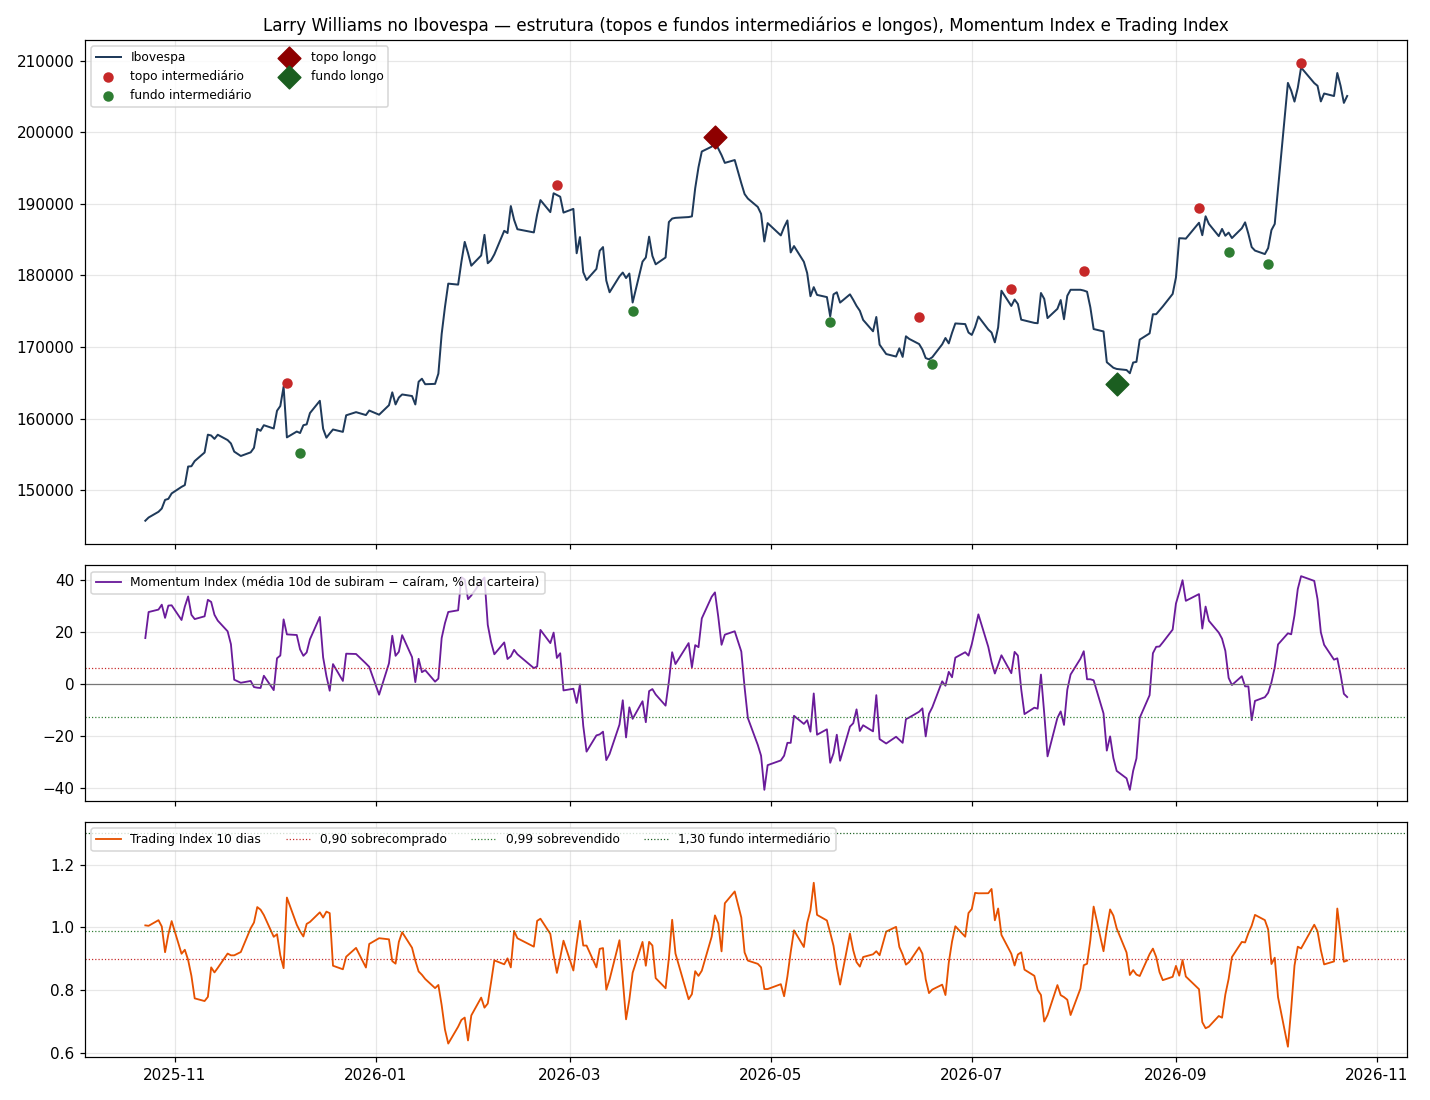
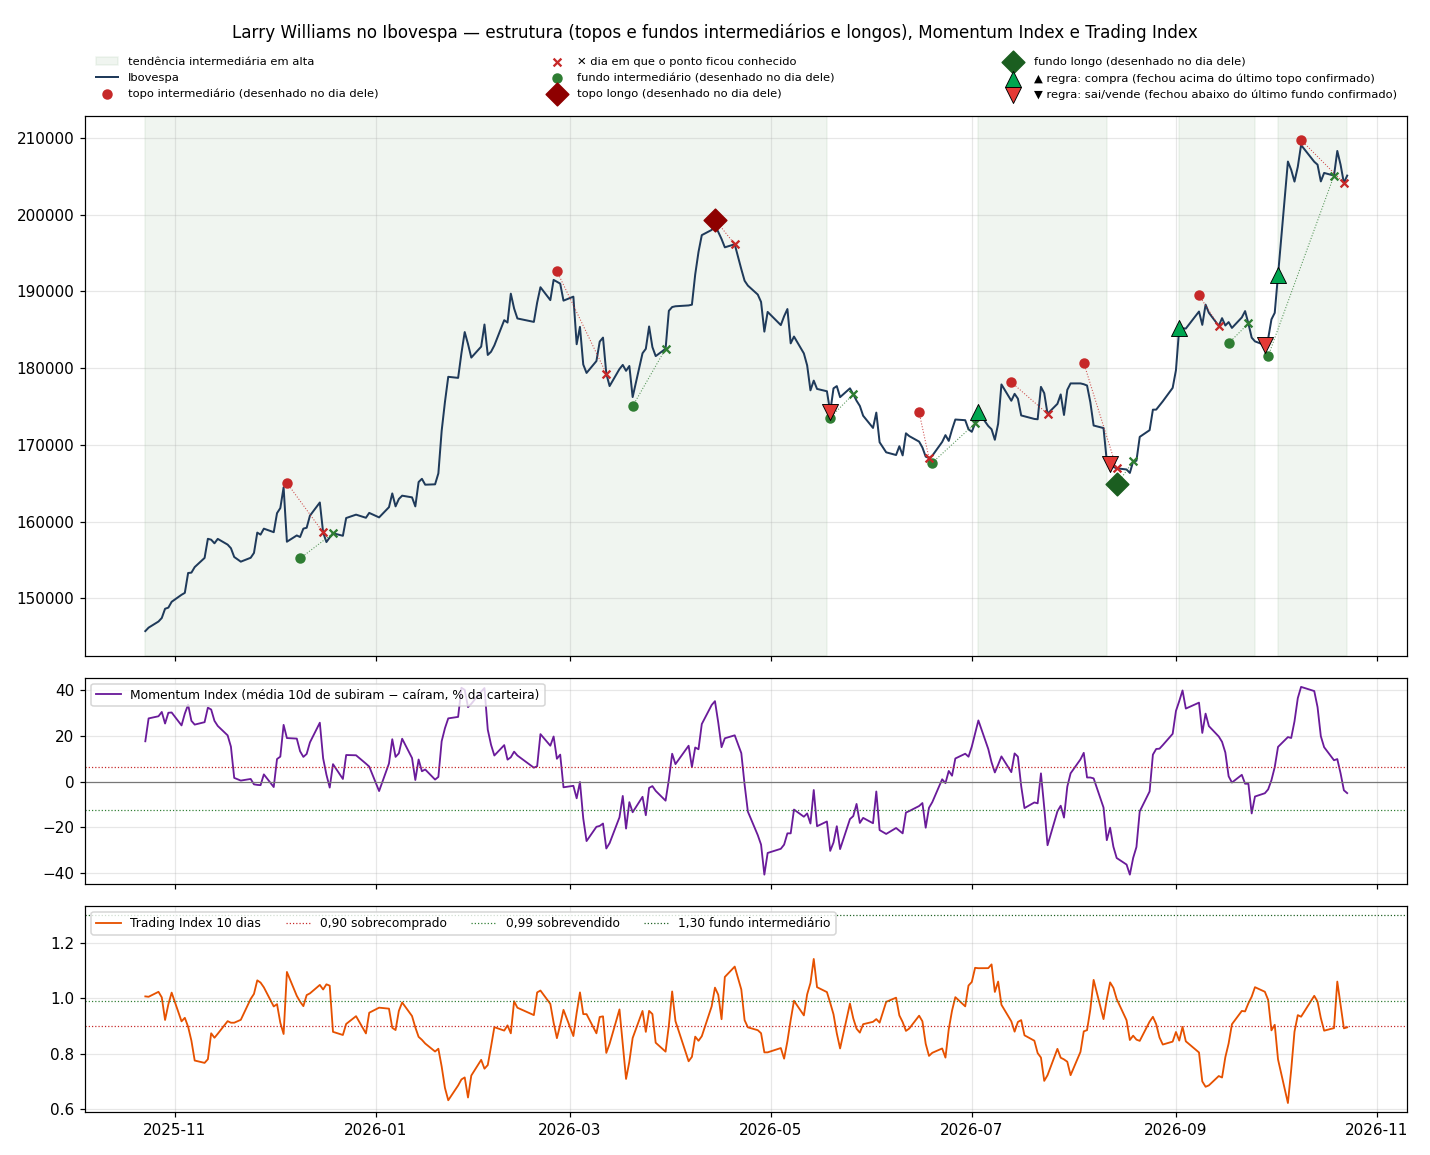
🤖 Auto: Sinal 24/10/2026 10:51

diff --git a/content/larry-williams/index.md b/content/larry-williams/index.md
@@ -5,7 +5,7 @@ description: "Os três prazos de Larry Williams lidos no Ibovespa: estrutura, Mo
 tags: [estudos, amplitude]
 ---
 
-*Atualizado 24/10/2026 10:43 · fechamento de 23/10/2026.*
+*Atualizado 24/10/2026 10:51 · fechamento de 23/10/2026.*
 
 > [!warning] Só informação
 > Leitura diária das ferramentas de **Larry Williams** (livros *The Secret of Selecting Stocks* e *Long-Term Secrets to Short-Term Trading*). **No teste no Ibovespa quase nada funcionou** (tabela abaixo) — nada aqui é regra do site nem manda alerta. O único gatilho que passou no índice, o **rompimento de 40%**, **não se confirmou no WIN**.
@@ -28,6 +28,9 @@ tags: [estudos, amplitude]
 > **No WIN não se confirmou:** executando no mini, no mesmo minuto do sinal (2021–hoje, 370 operações), deu +99 pontos por contrato por operação com custo real, mas **igual ao acaso** (24%; 1ª metade +22, 2ª +176). Metade da vantagem do índice some no WIN — a abertura do índice fica parada nos primeiros minutos e engorda o resultado no papel.
 
 ![Larry Williams no Ibovespa](graficos/larry_20261023.png)
+
+> [!tip] Como ler o gráfico — as bolinhas só existem DEPOIS
+> Cada bolinha está no dia do topo/fundo, mas **nesse dia ninguém sabia** que era um topo: o ponto intermediário só fica conhecido quando o próximo ponto de curto prazo do lado direito se forma (o **✕**, ligado à bolinha por uma linha pontilhada). Um ponto confirmado **não muda nem some** depois — só o mais recente ainda não aparece, porque não foi confirmado. O que dava para operar de verdade são os **▲▼**: a regra compra quando o Ibovespa fecha acima do último topo confirmado e sai quando fecha abaixo do último fundo confirmado (no teste: ~+12%/ano nos dois períodos, mas igual ao acaso).
 
 ## Como o Larry usa cada prazo
 
